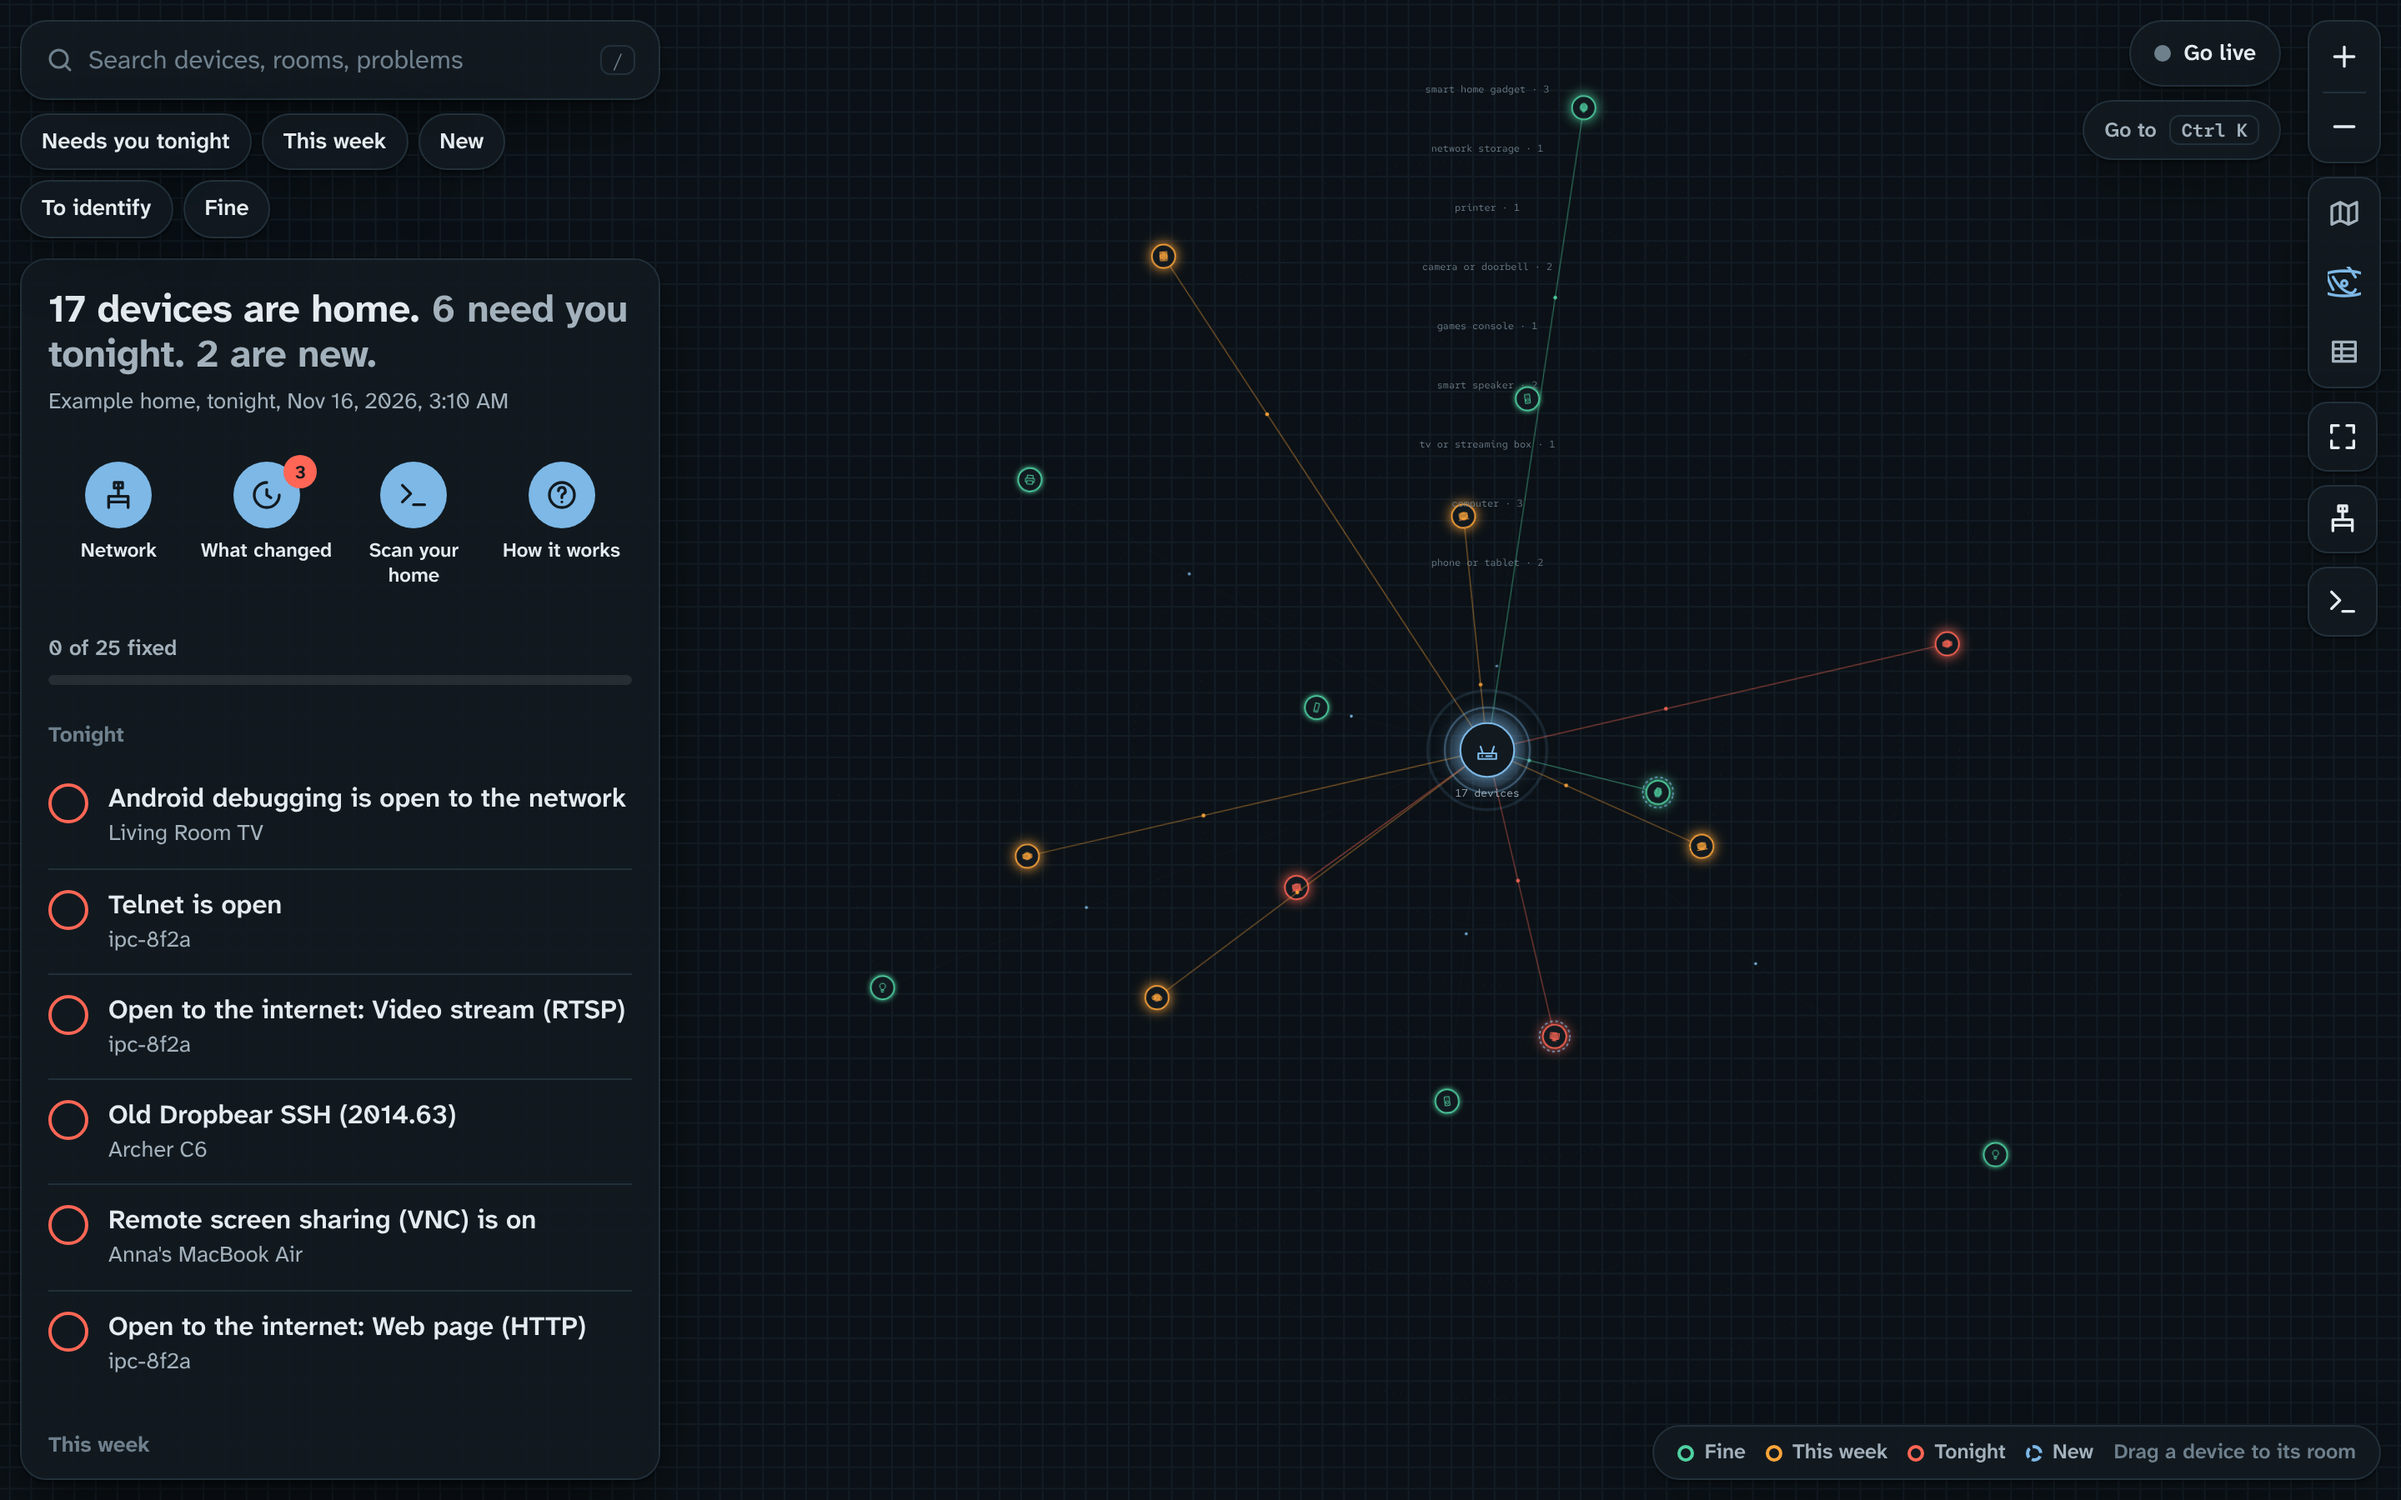
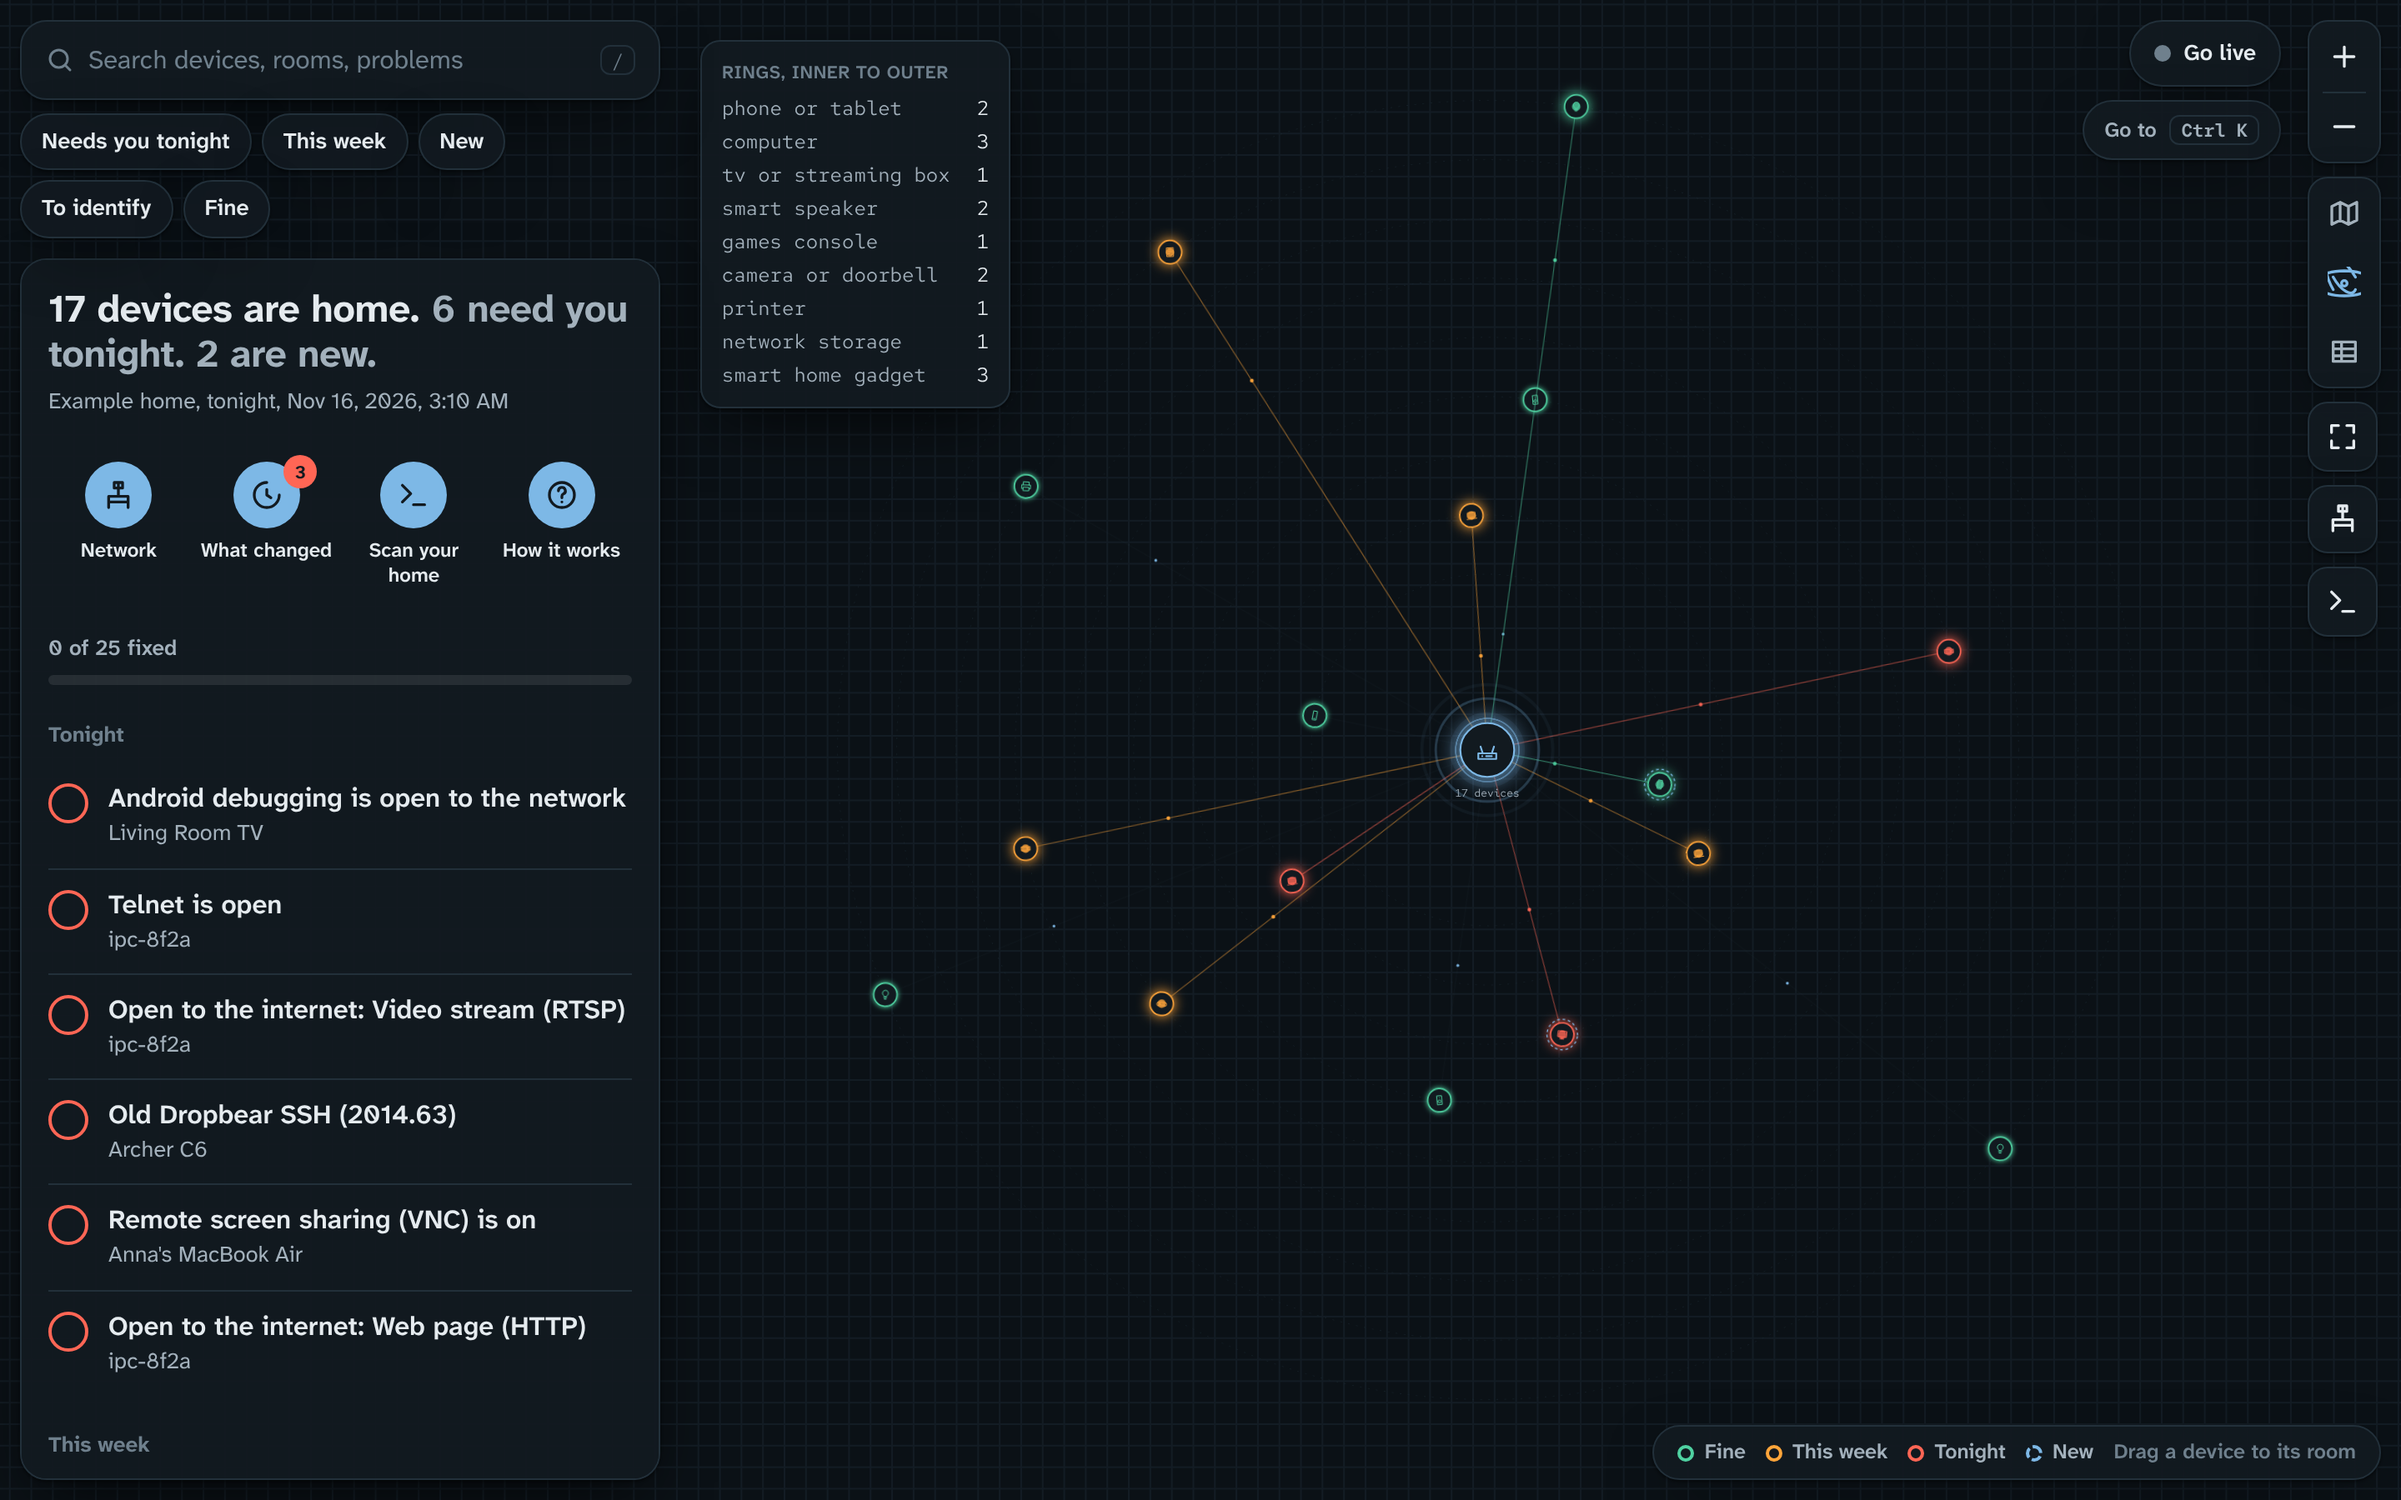
Move the atom's ring labels into a legend card in the corner
The per-ring type labels no longer float stacked over the map; they're a
tidy 'Rings, inner to outer' card pinned to the top-left corner.

diff --git a/apps/web/src/atom.tsx b/apps/web/src/atom.tsx
@@ -165,12 +165,6 @@ export function Atom({
         </text>
       </g>
 
-      {/* Shell name tags, not rotating. */}
-      {shells.map((s) => (
-        <text key={s.kind} x={half} y={half - s.radius - 9} textAnchor="middle" className="pointer-events-none fill-[var(--faint)] font-mono text-[11px]">
-          {KIND_NAME[s.kind].toLowerCase()} · {s.nodes.length}
-        </text>
-      ))}
     </svg>
   );
 
@@ -179,6 +173,19 @@ export function Atom({
       <MapView ref={mapRef} w={size} h={size} insets={insets}>
         {atom}
       </MapView>
+
+      {/* The rings, listed quietly in the corner instead of floating over the map. */}
+      <div data-ui className="glass pointer-events-none absolute z-10 hidden rounded-xl px-3 py-2.5 md:block" style={{ left: insets.l + 12, top: insets.t + 12 }}>
+        <div className="mb-1 text-[11px] font-semibold uppercase tracking-wide text-faint">Rings, inner to outer</div>
+        <ul className="space-y-0.5">
+          {shells.map((s) => (
+            <li key={s.kind} className="flex items-center justify-between gap-4 font-mono text-[12px] text-muted">
+              <span>{KIND_NAME[s.kind].toLowerCase()}</span>
+              <span className="text-ink">{s.nodes.length}</span>
+            </li>
+          ))}
+        </ul>
+      </div>
       {hover && (
         <div data-ui className="pointer-events-none fixed z-30 w-[15rem] -translate-x-1/2 -translate-y-[calc(100%+12px)] rounded-xl border border-line bg-panel p-3 shadow-[var(--shadow)]" style={{ left: hover.x, top: hover.y }}>
           <div className="flex items-center gap-2">
